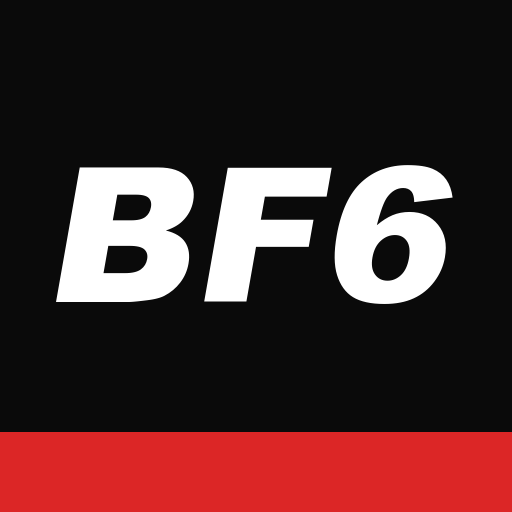
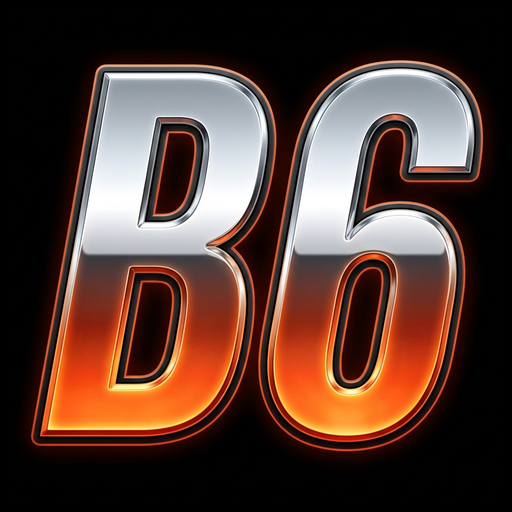
BF6: ファビコンをクロム調「B6」に刷新(16pxでの潰れ対策つき)
タイトルロゴと同じクロム＋炎グラデのマークをGeminiで生成。
BF6の3文字はタブの16pxで1文字5px弱になり判読不能だったため、
TARO判断で2文字の「B6」にした。

- icon.png 512(ホーム画面/OG)
- apple-icon.png 180
- favicon.ico に 16/32/48 を内蔵し、サイズごとに個別シャープ

diff --git a/src/app/bf6/layout.tsx b/src/app/bf6/layout.tsx
@@ -7,8 +7,13 @@ export const metadata: Metadata = {
   title: "BOOMER'S FIGHT!!! vol.6 - BATTLE & SHOWCASE",
   description: '2026.9.26(土) SSM 9階ホール / BOOM DANCE SCHOOL主催ダンスバトル&ショーケース。エントリー受付中!',
   icons: {
-    icon: '/bf6/icon.png',
-    apple: '/bf6/icon.png',
+    // タブは16px。3文字だと潰れるため「B6」のクロムマークにした(2026-08-12)。
+    // .ico に 16/32/48 を内蔵してサイズごとにシャープをかけてある。
+    icon: [
+      { url: '/bf6/favicon.ico', sizes: '16x16 32x32 48x48' },
+      { url: '/bf6/icon.png', type: 'image/png', sizes: '512x512' },
+    ],
+    apple: '/bf6/apple-icon.png',
   },
   openGraph: {
     title: "BOOMER'S FIGHT!!! vol.6 - BATTLE & SHOWCASE",
